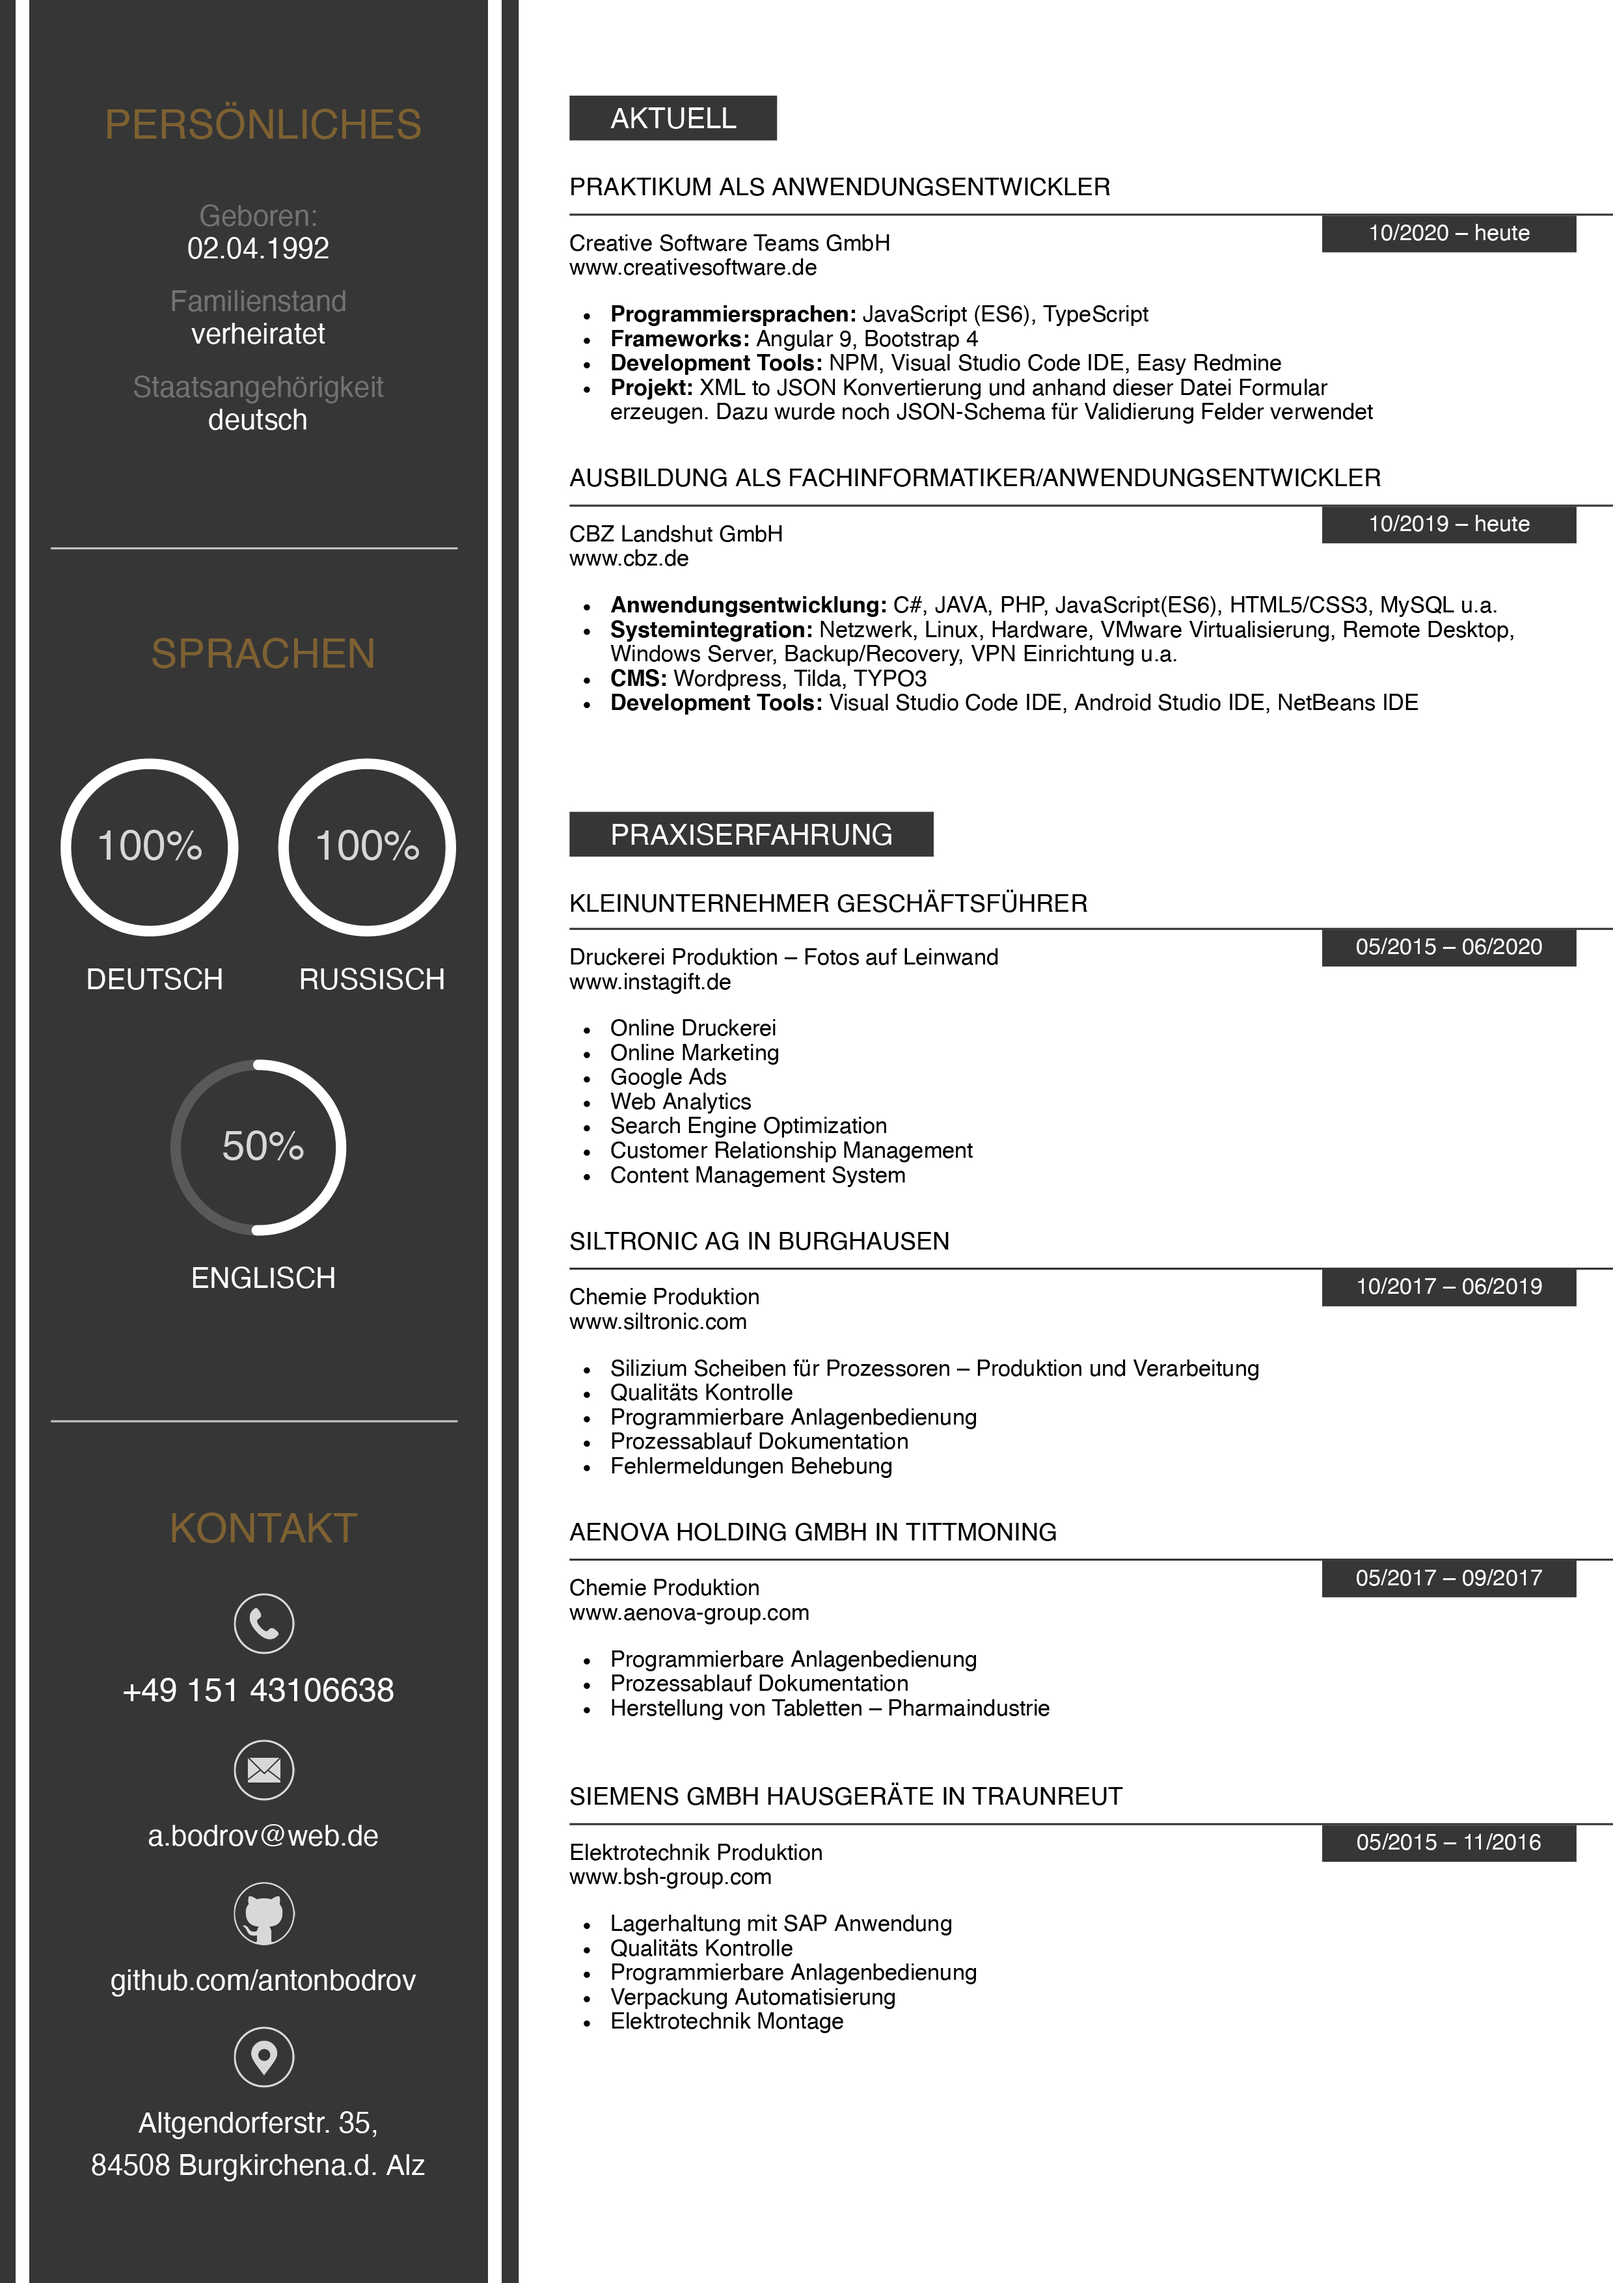
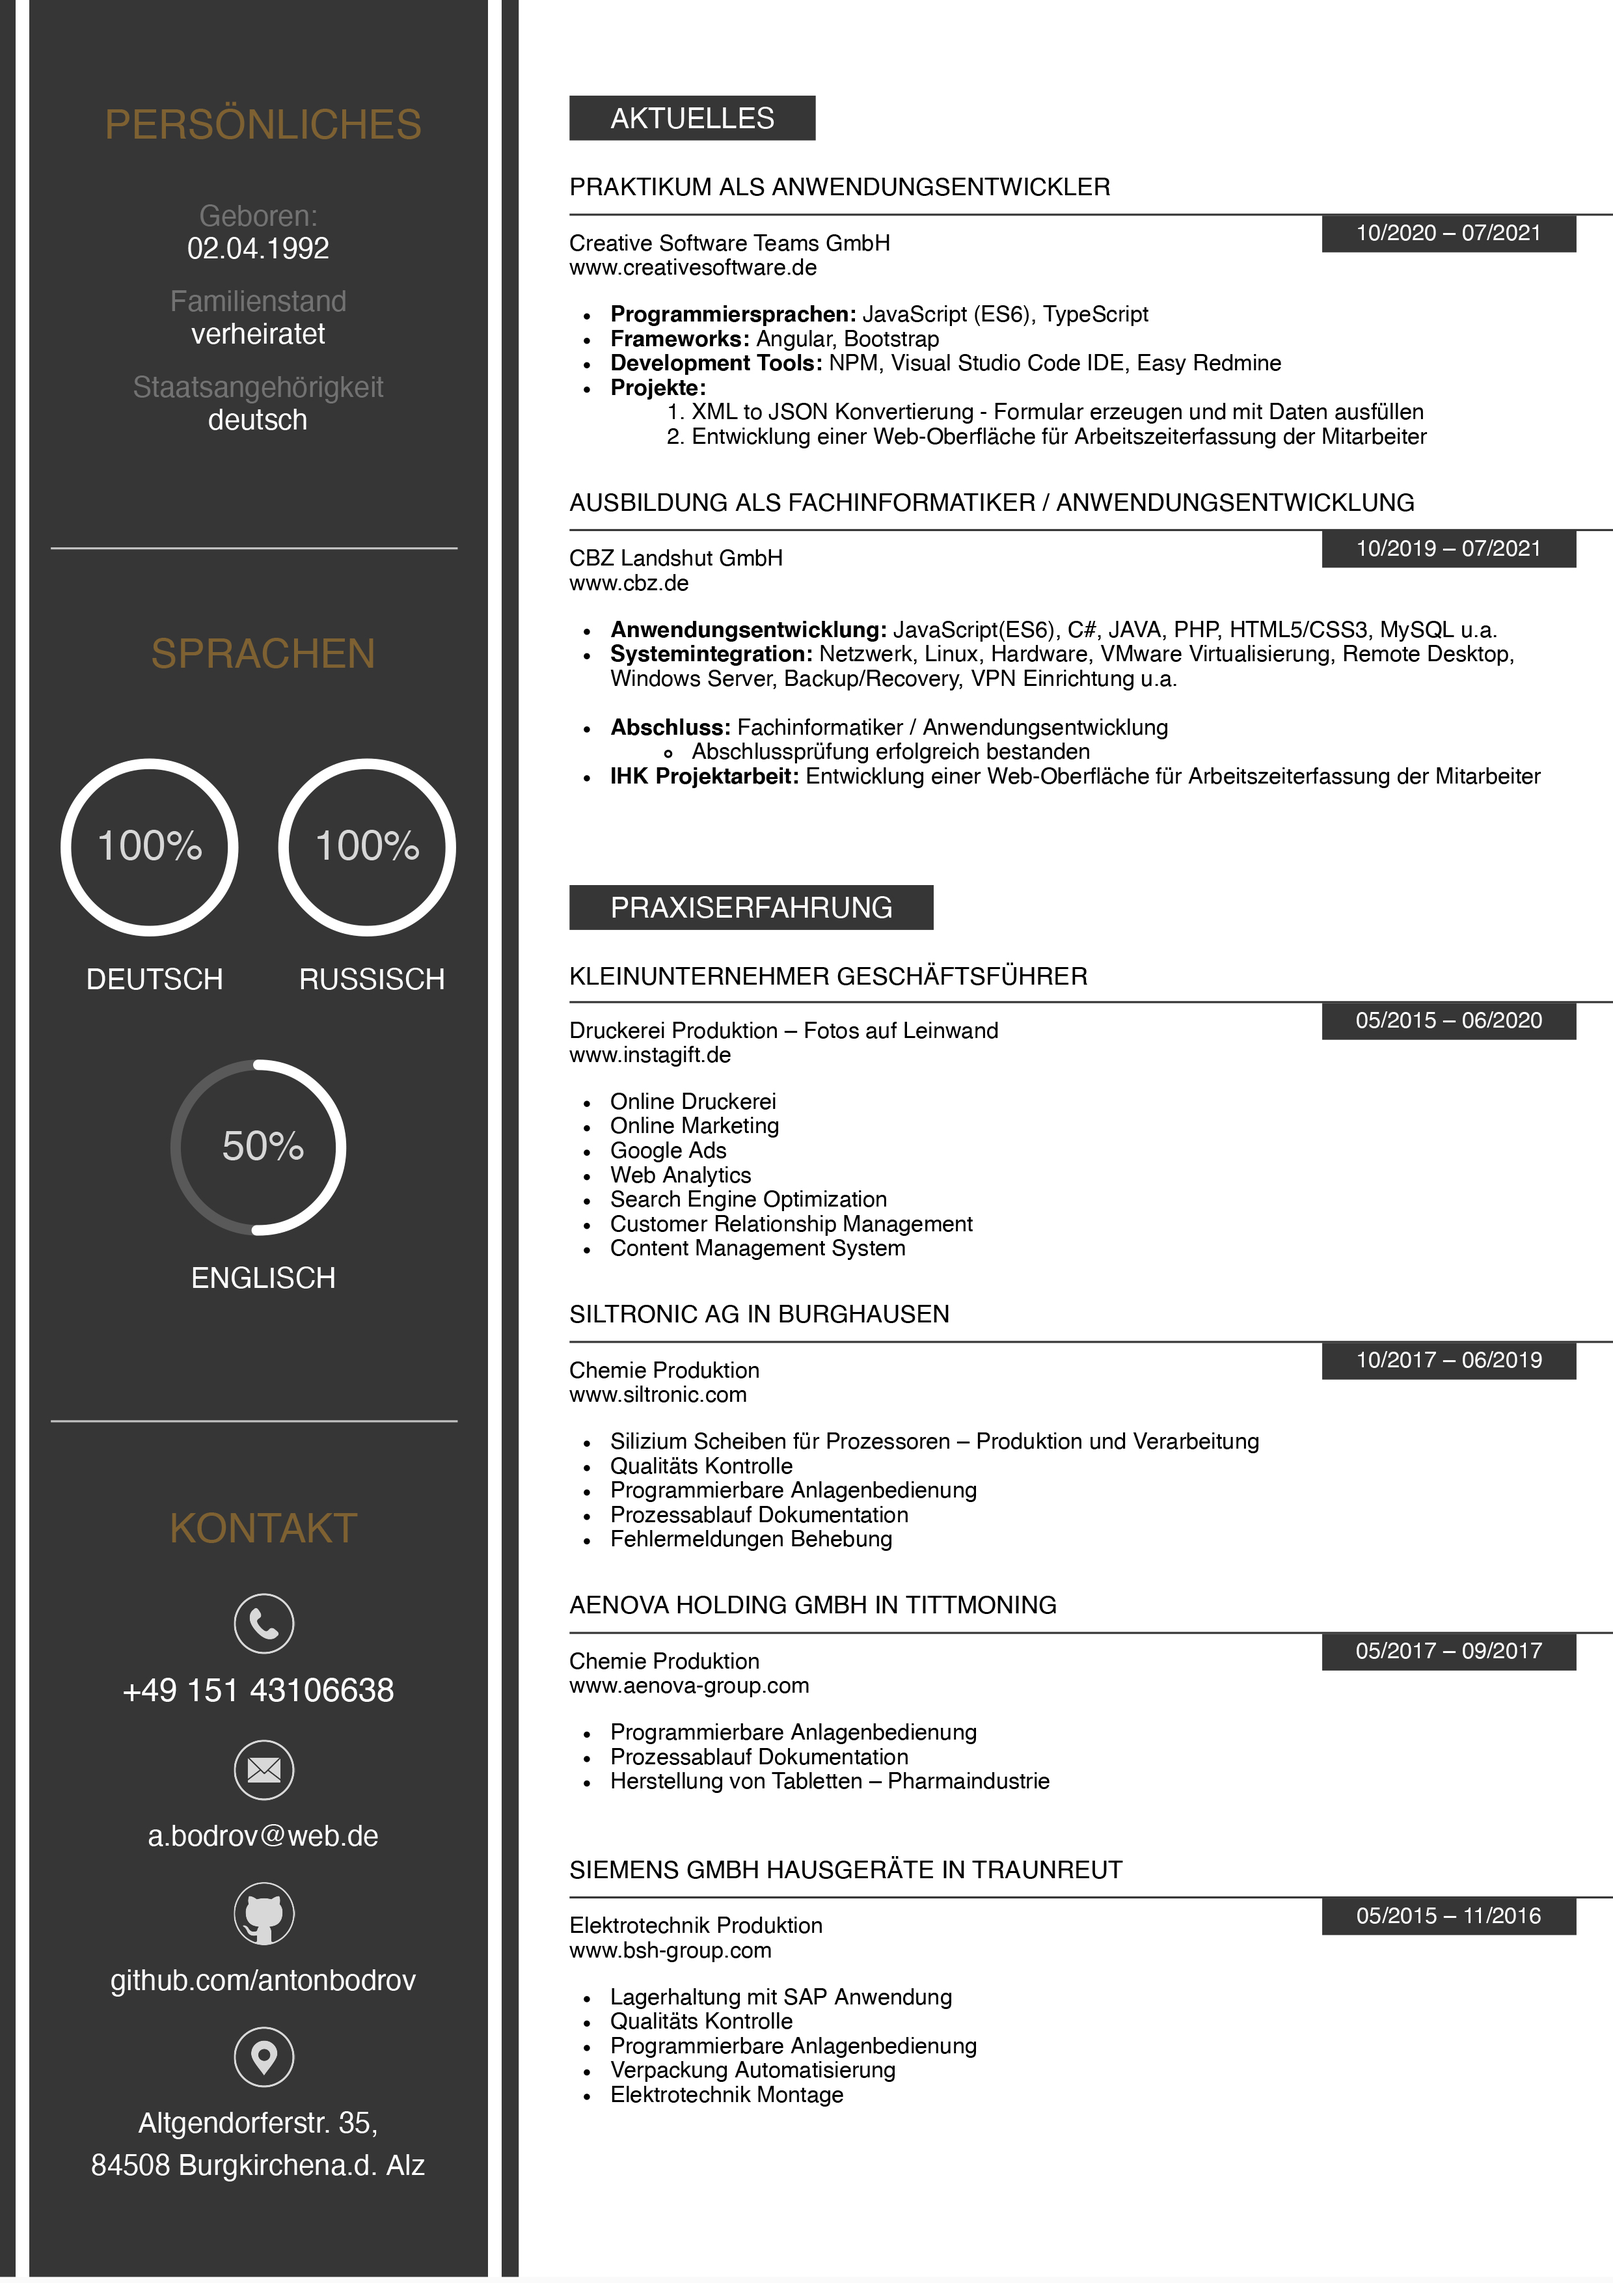
cv

diff --git a/index.html b/index.html
@@ -35,7 +35,7 @@
                         <h6 class="deckblatt_header">SOFTWARE ENTWICKLER</h6>
 
                         <p class="deckblatt_datum" style="font-size: 45px">LEBENSLAUF</p>
-                        <p id="datum" style="width: 300px; margin-left: -44px">Burgkirchen, </p>
+                        <p id="datum" style="width: 300px; margin-left: -44px">Burgkirchen,</p>
 
                         <p class="deckblatt_kontaktInfo">
                             Anton Bodrov<br />Altgendorferstr. 35<br />84508 Burgkirchen<br /><br />Email:
@@ -153,7 +153,7 @@
                     <div style="position: static; margin: 0; padding: 0; width: 20.2cm">
                         <div>
                             <!-- <h1 style="font-weight: 400; text-align: right; font-size: 35px; padding-top: 50px">ANTON<br />BODROV</h1> -->
-                            <p style="font-size: 14px; margin-left: 280px; padding-top: 50px"><span style="padding: 3px 20px; color: white; background-color: #363636">AKTUELL</span></p>
+                            <p style="font-size: 14px; margin-left: 280px; padding-top: 50px"><span style="padding: 3px 20px; color: white; background-color: #363636">AKTUELLES</span></p>
                         </div>
 
                         <div style="margin-left: 280px; margin-top: 20px">
@@ -161,7 +161,7 @@
                             <div class="line3"></div>
 
                             <div style="margin-left: 370px; width: 125px; height: 18px; display: flex; justify-content: center; align-items: center; background: #363636">
-                                <p style="font-size: 11px; color: white; text-align: center">10/2020 – heute</p>
+                                <p style="font-size: 11px; color: white; text-align: center">10/2020 – 07/2021</p>
                             </div>
 
                             <div style="margin-top: -10px">
@@ -172,21 +172,31 @@
                             </div>
                             <ul style="margin-left: -20px; font-size: 11px">
                                 <li><b>Programmiersprachen:</b> JavaScript (ES6), TypeScript</li>
-                                <li><b>Frameworks:</b> Angular 9, Bootstrap 4</li>
+                                <li><b>Frameworks:</b> Angular, Bootstrap</li>
                                 <li><b>Development Tools:</b> NPM, Visual Studio Code IDE, Easy Redmine</li>
                                 <li>
-                                    <b>Projekt:</b> XML to JSON Konvertierung und anhand dieser Datei Formular <br />
-                                    erzeugen. Dazu wurde noch JSON-Schema für Validierung Felder verwendet
+                                    <b>Projekte:</b>
+                                    <ol>
+                                        <li>XML to JSON Konvertierung - Formular erzeugen und mit Daten ausfüllen</li>
+                                        <li>Entwicklung einer Web-Oberfläche für Arbeitszeiterfassung der Mitarbeiter</li>
+                                    </ol>
+
+
+
+
+
+                                    <!-- XML to JSON Konvertierung und anhand dieser Datei Formular <br />
+                                    erzeugen. Dazu wurde noch JSON-Schema für Validierung Felder verwendet -->
                                 </li>
                             </ul>
                         </div>
 
                         <div style="margin-left: 280px; margin-top: 20px">
-                            <p style="font-size: 12px">AUSBILDUNG ALS FACHINFORMATIKER/ANWENDUNGSENTWICKLER</p>
+                            <p style="font-size: 12px">AUSBILDUNG ALS FACHINFORMATIKER / ANWENDUNGSENTWICKLUNG</p>
                             <div class="line3"></div>
 
                             <div style="margin-left: 370px; width: 125px; height: 18px; display: flex; justify-content: center; align-items: center; background: #363636">
-                                <p style="font-size: 11px; color: white; text-align: center">10/2019 – heute</p>
+                                <p style="font-size: 11px; color: white; text-align: center">10/2019 – 07/2021</p>
                             </div>
 
                             <div style="margin-top: -10px">
@@ -196,10 +206,16 @@
                                 </p>
                             </div>
                             <ul style="margin-left: -20px; font-size: 11px">
-                                <li><b>Anwendungsentwicklung:</b> C#, JAVA, PHP, JavaScript(ES6), HTML5/CSS3, MySQL u.a.</li>
+                                <li><b>Anwendungsentwicklung:</b> JavaScript(ES6), C#, JAVA, PHP, HTML5/CSS3, MySQL u.a.</li>
                                 <li><b>Systemintegration:</b> Netzwerk, Linux, Hardware, VMware Virtualisierung, Remote Desktop, Windows Server, Backup/Recovery, VPN Einrichtung u.a.</li>
-                                <li><b>CMS:</b> Wordpress, Tilda, TYPO3</li>
-                                <li><b>Development Tools:</b> Visual Studio Code IDE, Android Studio IDE, NetBeans IDE</li>
+                                <!-- <li><b>CMS:</b> Wordpress, Tilda, TYPO3</li>
+                                <li><b>Development Tools:</b> Visual Studio Code IDE, Android Studio IDE, NetBeans IDE</li> -->
+                                <br>
+                                
+                                <li><b>Abschluss:</b> Fachinformatiker / Anwendungsentwicklung <br> <ul> <li> Abschlussprüfung erfolgreich bestanden</li> </ul>   </b></li>
+                                
+                                
+                                <li><b>IHK Projektarbeit:</b> Entwicklung einer Web-Oberfläche für Arbeitszeiterfassung der Mitarbeiter</b></li>
                             </ul>
                         </div>
 

diff --git a/js/script.js b/js/script.js
@@ -1,22 +1,22 @@
-function get_today(){ 
-    var today = new Date(); 
+function get_today() {
+    var today = new Date();
 
-    var day = today.getDate(); // Tag 
+    var day = today.getDate(); // Tag
 
-    // Monatsangabe startet bei 0! 
-    var month = today.getMonth()+1; // Monat 
+    // Monatsangabe startet bei 0!
+    var month = today.getMonth() + 1; // Monat
 
-    var year = today.getFullYear(); // Jahr 
-    if(day < 10) { 
-            day = '0'+ day; 
-    } 
-    if(month < 10) { 
-            month = '0'+ month; 
-    } 
-    today = day + '.' + month + '.' + year; 
+    var year = today.getFullYear(); // Jahr
+    if (day < 10) {
+        day = '0' + day;
+    }
+    if (month < 10) {
+        month = '0' + month;
+    }
+    today = ' ' + day + '.' + month + '.' + year;
 
-    return today; 
-} 
+    return today;
+}
 
 var today = get_today();
 
